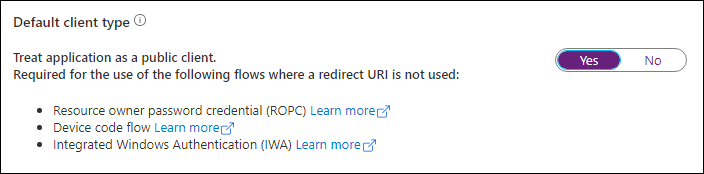
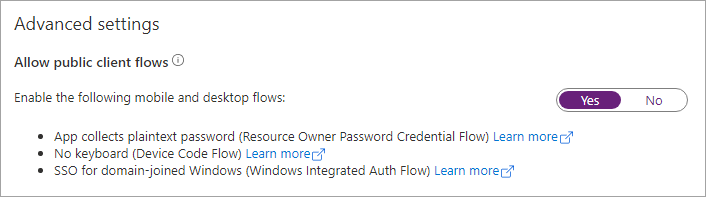
FY21Q4 refresh - optimize-network-traffic
- run through all exercise steps in associated MSLearn module to validate good working order
- updated steps & fixed typos where necessary
- implement changes per Acrolinx feedback
- any & all users/names/company names/pictures/IDs are not real people/tenants... all are from M365 demo tenants provided by Microsoft

diff --git a/learn-m365-pr/m365-developer/optimize-network-traffic/includes/3-exercise-understand-throttling-microsoft-graph.md b/learn-m365-pr/m365-developer/optimize-network-traffic/includes/3-exercise-understand-throttling-microsoft-graph.md
@@ -37,7 +37,7 @@ In the **Redirect URIs** section of the **Configure Desktop + devices** panel, s
 
 ![Screenshot of the Configure Desktop + devices panel](../media/azure-ad-portal-new-app-03.png)
 
-In the **Authentication** page, scroll down to the **Default client type** section and set the toggle to **Yes**.
+In the **Authentication** page, scroll down to the **Allow public client flows** section and set the toggle to **Yes**.
 
 ![Screenshot of the Default client type section](../media/azure-ad-portal-new-app-04.png)
 
@@ -68,12 +68,12 @@ In the **Configured Permissions** panel, select the button **Grant admin consent
 ![Screenshot of the Configured permissions panel](../media/azure-ad-portal-new-app-permissions-04.png)
 
 > [!NOTE]
-> The option to **Grant admin consent** here in the Azure AD admin center is pre-consenting the permissions to the users in the tenant to simplify the exercise. This approach allows the console application to use the [resource owner password credential grant](https://docs.microsoft.com/azure/active-directory/develop/v2-oauth-ropc), so the user isn't prompted to grant consent to the application that simplifies the process of obtaining an OAuth access token. You could elect to implement alternative options such as the [device code flow](https://docs.microsoft.com/azure/active-directory/develop/v2-oauth2-device-code) to utilize dynamic consent as another option.
+> The option to **Grant admin consent** here in the Azure AD admin center is pre-consenting the permissions to the users in the tenant to simplify the exercise. This approach allows the console application to use the [resource owner password credential grant](/azure/active-directory/develop/v2-oauth-ropc), so the user isn't prompted to grant consent to the application that simplifies the process of obtaining an OAuth access token. You could elect to implement alternative options such as the [device code flow](/azure/active-directory/develop/v2-oauth2-device-code) to utilize dynamic consent as another option.
 
 ## Create .NET Core console application
 
 > [!NOTE]
-> The instructions below assume you are using .NET 5. They were last tested using v5.0.102 of the .NET 5 SDK.
+> The instructions below assume you are using .NET 5. They were last tested using v5.0.202 of the .NET 5 SDK.
 
 Open your command prompt, navigate to a directory where you have rights to create your project, and run the following command to create a new .NET Core console application:
 

diff --git a/learn-m365-pr/m365-developer/optimize-network-traffic/includes/5-exercise-avoid-throttling-implement-throttling-strategies.md b/learn-m365-pr/m365-developer/optimize-network-traffic/includes/5-exercise-avoid-throttling-implement-throttling-strategies.md
@@ -46,9 +46,6 @@ namespace graphconsoleapp
 }
 ```
 
-> [!NOTE]
-> Ensure the namespace in the **Messages.cs** file matches the namespace in the rest of the application.
-
 This class is used by the JSON deserializer to translate a JSON response into a `Messages` object.
 
 ### Add method to implement delayed retry strategy when requests are throttled
